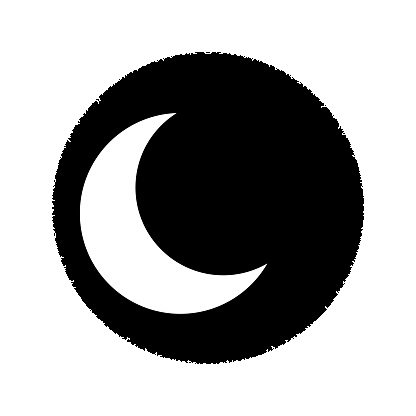
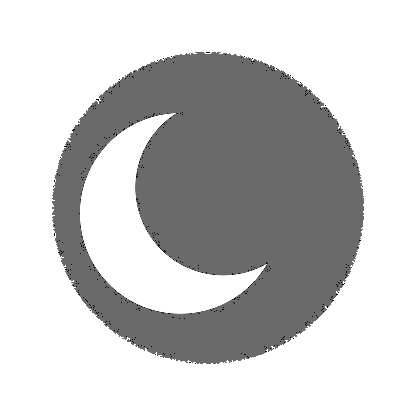
update1.2

diff --git a/index.html b/index.html
@@ -7,6 +7,7 @@
     <title>Shadow World</title>
     <link rel="stylesheet" href="index.css">
     <link rel="icon" href="Shadow.jpg" type="image/x-icon">
+    <link rel="stylesheet" href="https://cdnjs.cloudflare.com/ajax/libs/font-awesome/4.7.0/css/font-awesome.min.css">
 </head>
 <body>
 
@@ -26,7 +27,7 @@
         </div>
 
         <div class="menuNav">
-            <div class="optNav"><a href=>Gallery<small>&nbsp;<small>▼</small> </small></a></div>
+            <div class="optNav"><a href=>Gallery<small>&nbsp;<small>&#9660;</small> </small></a></div>
             <ul>
                 <li><a href="">Images</a></li>
                 <li><a href="">Videos</a></li>
@@ -36,7 +37,7 @@
         </div>
 
         <div class="menuNav">
-            <div class="optNav"><a href="">Games<small>&nbsp;<small>▼</small> </small></a></div>
+            <div class="optNav"><a href="">Games<small>&nbsp;<small>&#9660;</small> </small></a></div>
             <ul>
                 <li><a href="">Arcade</a></li>
                 <li><a href="">Shooting</a></li>
@@ -46,7 +47,7 @@
         </div>
 
         <div class="menuNav">
-            <div class="optNav"><a href="">Movies<small>&nbsp;<small>▼</small> </small></a></div>
+            <div class="optNav"><a href="">Movies<small>&nbsp;<small>&#9660;</small> </small></a></div>
             <ul>
                 <li><a href="">Action</a></li>
                 <li><a href="">Animated</a></li>
@@ -62,15 +63,15 @@
     
     <button id="sun"><img src="light.png" alt="" height="30px" width="30px"></button>
 
-    <button id="moon"><img src="dark.png" alt="" height="35px" width="35px"></button>
+    <button id="moon"><img src="dark.png" alt="" height="30px" width="30px"></button>
 
     <div id="profile">
 
-        <img id="mypic" src="Mypic.jpg" alt="">
+        <div id="pp"><img id="mypic" src="Mypic.jpg" alt=""></div>
 
         <div id="aboutme">
             <h1>About Me</h1>
-            <p>Hi, I am <big>Swadesh</big>. This is just a personal site consisting the things I like.Created for trying out some stuff and for testing my web-dev skills.
+            <p>Hii, I'm <big>Swadesh Panda</big> ,currently pursuing my Bachelor's degree in Veer Surendra Sai University Of Technology, Burla.I am outgoing, dedicated, and open-minded. I like playing games and learn new stuff. I believe that a person should work on developing their professional skills and learning new things all the time. Currently, I am looking for new career opportunities.
             </p>
 
             <h2>Name</h2>
@@ -82,23 +83,49 @@
             <h2>Date Of Birth</h2>
             <p>07/01/2002</p>
 
-            <ul><h2>Educational Qualifications</h2>
-                <li>ᐅ I completed my matriculation from Kendriya Vidyalaya  No.1, Bhubaneswar.</li>
-                <li>ᐅ I did my intermidiate from M.B.S. Public School, Bhubaneswar.</li>
-                <li>ᐅ I am currently a student of Veer Surendra Sai University Of Technology, Burla.</li>
-            </ul>
-
-            <ol><h2>Hobbies</h2>
-                <li>1.Singing</li>
-                <li>2.Games</li>
-                <li>3.Pencil Shading</li>
-                <li>4.Origami</li>
+            <ol><h2>Educational Qualifications</h2>
+                <li> I completed my matriculation from Kendriya Vidyalaya  No.1, Bhubaneswar.</li>
+                <li> I did my intermidiate from M.B.S. Public School, Bhubaneswar.</li>
+                <li> I am currently a student of Veer Surendra Sai University Of Technology, Burla.</li>
             </ol>
 
+            <h2>Hobbies</h2>
+            <ul>
+                <li>Coding</li>
+                <li>Singing</li>
+                <li>Games</li>
+                <li>Sketching</li>
+                <li>Origami</li>
+            </ul>
         </div>
     </div>
 
-    <footer></footer>
+    <div id="profile">
+
+        <div id="aboutme">
+            <h1>My Skills</h1>
+
+            <h2>I have decent coding skills and I am currently working on:-</h2>
+
+            <ul>
+                <li>HTML</li>
+                <li>CSS</li>
+                <li>Javascript</li>
+                <li>C</li>
+            </ul>
+
+        </div>
+        
+        <div id="pp"><img id="sklpic" src="cmpskills.jpg" alt=""></div>
+
+    </div>
+
+    <footer>
+        <a href="https://github.com/Swadesh-Panda"><i class="fa fa-github"></i></a>
+        <a href="https://www.facebook.com/swadesh.panda.146"><i class="fa fa-facebook"></i></a>
+        <a href="https://www.instagram.com/swa_deshpanda/"><i class="fa fa-instagram"></i></a>
+        <a href="https://www.youtube.com/channel/UCz98infjzMBkZC0Eqzk6Sig"><i class="fa fa-youtube"></i></a>
+    </footer>
 
     <div id="logo">
         <img src="Shadow.jpg" alt="">

diff --git a/index.css b/index.css
@@ -5,17 +5,51 @@
     font-family: 'poppins',sans-serif;
 
 }
+button{
+    cursor: pointer;
+}
 @media (max-width: 1130px) {
     #sdwtext{
         display: none;
     }
     #logo img{
         background-color: transparent;
-        transition: 0.3s;
     }
 }
-body{
-    background-color: rgb(63, 63, 63);
+body::after{
+
+    content: "";
+
+    background-image: url(background.jpg);
+    background-size: cover;
+    background-position: center;
+
+    top: 0px;
+    left: 0px;
+
+    position: fixed;
+    height: 100%;
+    width: 100%;
+    z-index: -1;
+
+    transition: 0.5s;
+}
+.bodylght::after{
+    content: "";
+    
+    background-image: url(lgtbackground.jpg);
+    background-size: cover;
+    background-position: center;
+
+    top: 0px;
+    left: 0px;
+
+    position: fixed;
+    height: 100%;
+    width: 100%;
+
+    z-index: -1;
+
     transition: 0.5s;
 }
 /*--------------Mode---------------*/
@@ -74,7 +108,7 @@ header{
     justify-content: center;
     height: 40vw;
     
-    background-color: rgb(65, 56, 54);
+    background-color: rgba(65, 56, 54, 0.781);
 }
 #ImgCont{
     
@@ -115,8 +149,9 @@ header{
     height: 10px;
 }
 ::-webkit-scrollbar-thumb{
-    background: rgb(83, 59, 59);
+    background: rgb(109, 76, 76);
     box-shadow: inset 0px 0px 10px black;
+    border-radius: 100px;
 }
 ::-webkit-scrollbar-track-piece{
     background: rgb(0, 0, 0);
@@ -129,7 +164,7 @@ nav{
     flex-wrap: wrap;
 
     position: sticky;
-    top: -1px;
+    top: 0px;
 
     background-color: rgba(0, 0, 0, 0.336);
     box-shadow: inset 0px 20px 50px 5px black;
@@ -158,7 +193,7 @@ nav a{
 .menuNav ul{
     text-align: center;
     list-style: none;
-    background-color: rgb(70, 70, 70);
+    background-color: rgb(54, 54, 54);
     opacity: 0;
     
     display: flex;
@@ -227,44 +262,63 @@ nav a{
 }
 /*-----------------------Home Page------------------*/
 #profile{
+    margin: 5% 0px;
     display: flex;
     flex-wrap: wrap;
-    justify-content: space-evenly;
+}
+#pp{
+    display: flex;
+    justify-content: center;
+    flex-grow: 1;
+    justify-self: center;
+}
+#profile img{
+    align-self: center;
+    border-radius: 20px;
+
+    margin: 10px 0px;
+
+    box-shadow: 10px 10px 10px rgb(0, 0, 0);
 }
 #mypic{
     height: 70vh;
-    border-radius: 40px;
-    align-self: center;
-
-    box-shadow: 10px 10px 10px rgb(0, 0, 0);
+}
+#sklpic{
+    min-height: 200px;
+    max-width: 300px;
 }
 #aboutme{
-    background-color: rgb(51, 48, 48);
+    flex-grow: 20;
+    align-self: center;
+
+    margin: 0px 10px;
+    width: min-content;
+
+    background-color: rgba(27, 27, 27, 0.719);
     box-shadow: 10px 10px 10px rgb(0, 0, 0);
     border: 2px solid red;
 
-    margin: 10% 0px;
     padding: 1%;
+
 }
 h2{
     padding: 1% 5px;
 
     
     color: rgba(255, 255, 255, 0.562);
-    text-decoration: underline ;
     font-family: Arial, Helvetica, sans-serif;
 }
 h1{
     padding: 1%;
 
+    text-align: center;
     
     color: rgba(255, 255, 255, 0.61);
     text-decoration: underline;
     font-family: Arial, Helvetica, sans-serif;
 }
 #aboutme li{
-    list-style: none;
-    padding-left: 10px;
+    margin-left: 20px;
 
     color: white;
 }
@@ -275,7 +329,21 @@ p{
 }
 /*----------------Footer-------------*/
 footer{
-    height: 20%;
+    text-align: center;
+    font-size: 200%;
     
-    background-color: rgba(255, 146, 106, 0.479);
+    background-color: rgba(255, 117, 117, 0.596);
+}
+footer i{
+    color: rgb(0, 0, 0);
+    padding: 0.5% 2%;
+    transition: 0.2s;
+}
+footer i:hover{
+    text-shadow:0px 0px 10px white;
+    transition: 0.2s;
+}
+footer i:active{
+    color: grey;
+    transition: 0.2s;
 }

diff --git a/script.js b/script.js
@@ -2,8 +2,6 @@ var upbutton = document.getElementById("upBtnUp");
 
 var logoimg = document.getElementById("logo");
 
-var myHeader = document.getElementsByTagName("header");
-
 var Lghtmode = document.getElementById("sun");
 var Drkmode = document.getElementById("moon");
 
@@ -11,7 +9,7 @@ window.onscroll = function(){
   if (document.body.scrollTop > 20) {
     upbutton.style.display = "block";
     
-    if (document.body.scrollTop > 0) {
+    if (document.body.scrollTop > 100) {
       logoimg.classList.add("logo");
     }else{
       logoimg.classList.remove("logo");
@@ -20,8 +18,8 @@ window.onscroll = function(){
   }else{
     upbutton.style.display = "none";
     
-    if (document.body.scrollTop > 500) {
-      logoimg.sty
+    if (document.body.scrollTop > 100) {
+      logoimg.classList.add("logo");
     }else{
       logoimg.classList.remove("logo");
     }
@@ -33,13 +31,13 @@ upbutton.onclick = function(){
 }
 
 Lghtmode.onclick = function(){
-  document.body.style.backgroundColor = "rgba(158, 158, 158, 0.637)";
+  document.body.classList.add("bodylght");
   Lghtmode.style.display = "none";
   Drkmode.style.display = "block";
 }
 
 Drkmode.onclick = function(){
-  document.body.style.backgroundColor = "rgb(63, 63, 63)";
+  document.body.classList.remove("bodylght");
   Drkmode.style.display = "none";
   Lghtmode.style.display = "block";
 }
